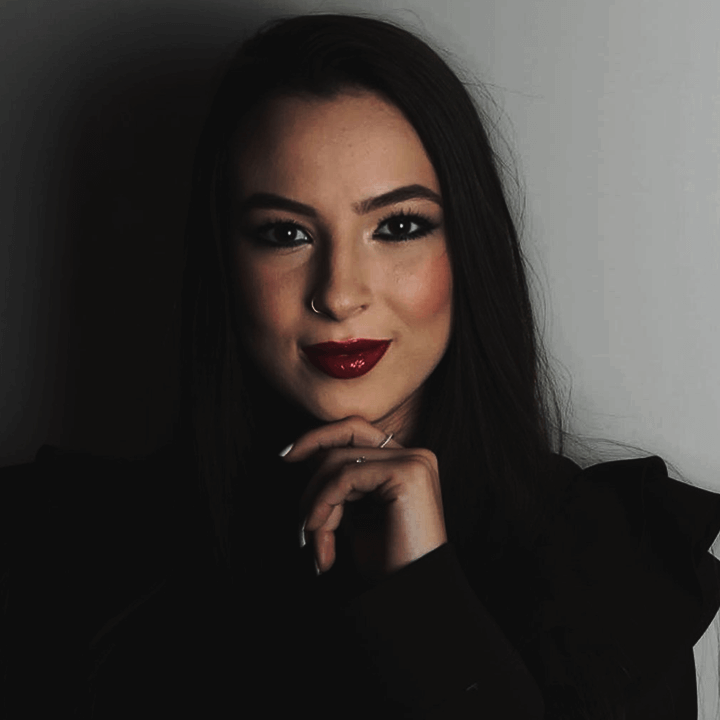
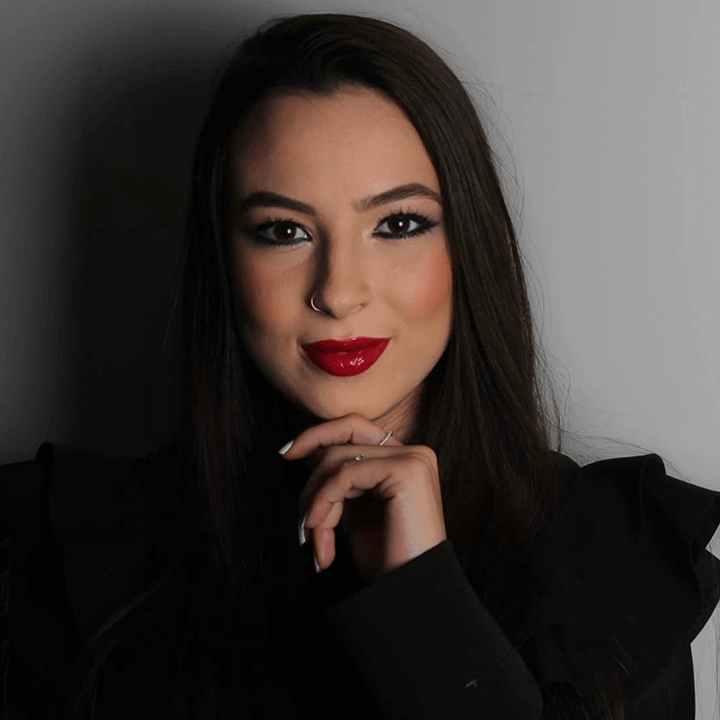
imagens corrigidas

diff --git a/index.html b/index.html
@@ -55,10 +55,10 @@
       <div class="text-div-1">
         <h1 class="title">Keila Zanin</h1>
         <p class="text-block">
-          Psicóloga clínica, moradora de Monsenhor Paulo, é apaixonada pela área
-          de saúde mental. Ela atua na abordagem cognitivo-comportamental e
-          realiza atendimento online. Dedica-se a ajudar as pessoas a alcançar o
-          equilíbrio emocional.
+          Psicóloga Clínica, que atua na abordagem Terapia Cognitivo
+          Comportamental, realizando atendimentos de forma online. Dedica-se a
+          ajudar as pessoas a viver uma vida mais leve, priorizando sua saúde
+          mental.
         </p>
       </div>
       <!-- Foto da pessoa em questão -->
